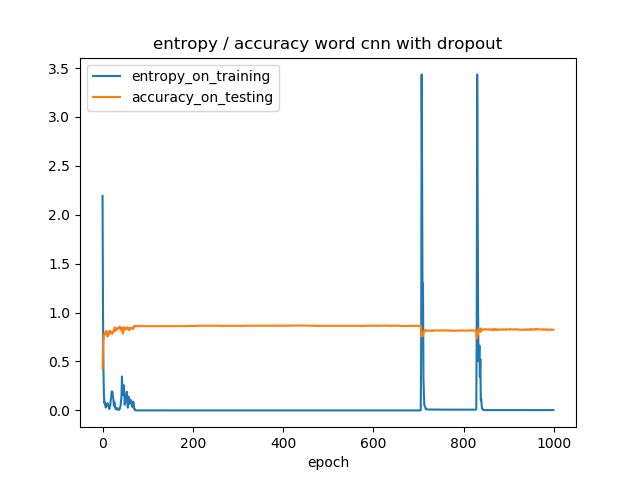
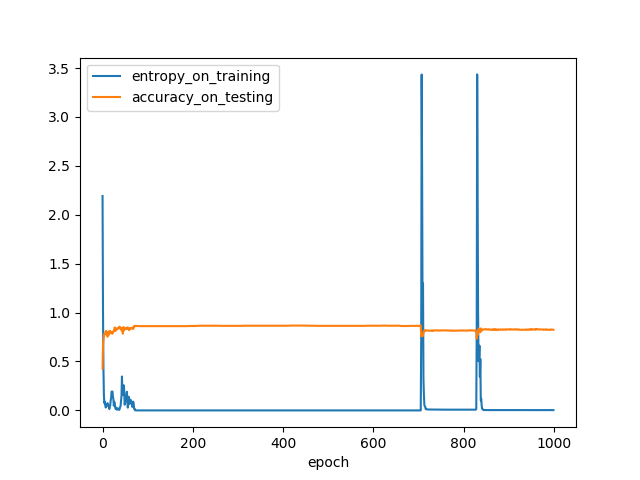
refactor

Changed region(s): [[0.25, 0.0625, 0.7812, 0.125]]

diff --git a/assignment2/assignment2_question_b/char_2rnn.py b/assignment2/assignment2_question_b/char_2rnn.py
@@ -12,6 +12,7 @@ HIDDEN_SIZE = 20
 MAX_LABEL = 15
 EMBEDDING_SIZE = 50
 
+num_layers=2
 lr = 0.01
 
 
@@ -22,8 +23,15 @@ def rnn_model(x, withDropout):
 
     word_list = tf.unstack(word_vectors, axis=1)
 
-    cell = tf.nn.rnn_cell.GRUCell(HIDDEN_SIZE)
-    _, encoding = tf.nn.static_rnn(cell, word_list, dtype=tf.float32)
+    def rnn_cell():
+        return tf.nn.rnn_cell.BasicRNNCell(num_units=HIDDEN_SIZE, activation=tf.nn.softsign)
+
+    stacked_rnn = tf.contrib.rnn.MultiRNNCell([rnn_cell() for _ in range(num_layers)])
+
+    encoding, _ = tf.nn.dynamic_rnn(cell=stacked_rnn,
+                                inputs=word_list,
+                                dtype=tf.float32)
+
 
     logits = tf.layers.dense(encoding, MAX_LABEL, activation=None)
     if withDropout:
@@ -92,7 +100,7 @@ def train(withDropout):
         plt.figure()
         plt.plot(entropy_on_training)
         plt.plot(accuracy_on_testing)
-        plt.title('entropy / accuracy word cnn with dropout')
+        plt.title('entropy / accuracy')
         plt.xlabel('epoch')
         plt.legend(['entropy_on_training', 'accuracy_on_testing',], loc='upper left')
         plt.savefig(os.path.join(dir_path, 'other', 'figure', 'char_2rnn_withDropout.png'))  
@@ -105,7 +113,7 @@ def train(withDropout):
         plt.figure()
         plt.plot(entropy_on_training)
         plt.plot(accuracy_on_testing)
-        plt.title('entropy / accuracy word cnn without dropout')
+        plt.title('entropy / accuracy')
         plt.xlabel('epoch')
         plt.legend(['entropy_on_training', 'accuracy_on_testing',], loc='upper left')
         plt.savefig(os.path.join(dir_path, 'other', 'figure', 'char_2rnn_withoutDropout.png'))  

diff --git a/assignment2/assignment2_question_b/char_rnn_clipping.py b/assignment2/assignment2_question_b/char_rnn_clipping.py
@@ -95,7 +95,7 @@ def train(withDropout):
         plt.figure()
         plt.plot(entropy_on_training)
         plt.plot(accuracy_on_testing)
-        plt.title('entropy / accuracy word cnn with dropout')
+        plt.title('entropy / accuracy')
         plt.xlabel('epoch')
         plt.legend(['entropy_on_training', 'accuracy_on_testing',], loc='upper left')
         plt.savefig(os.path.join(dir_path, 'other', 'figure', 'char_rnn_clipping_withDropout.png'))  
@@ -108,7 +108,7 @@ def train(withDropout):
         plt.figure()
         plt.plot(entropy_on_training)
         plt.plot(accuracy_on_testing)
-        plt.title('entropy / accuracy word cnn without dropout')
+        plt.title('entropy / accuracy word')
         plt.xlabel('epoch')
         plt.legend(['entropy_on_training', 'accuracy_on_testing',], loc='upper left')
         plt.savefig(os.path.join(dir_path, 'other', 'figure', 'char_rnn_clipping_withoutDropout.png'))  

diff --git a/assignment2/assignment2_question_b/word_rnn_clipping.py b/assignment2/assignment2_question_b/word_rnn_clipping.py
@@ -95,7 +95,7 @@ def train(withDropout):
         plt.figure()
         plt.plot(entropy_on_training)
         plt.plot(accuracy_on_testing)
-        plt.title('entropy / accuracy word cnn with dropout')
+        plt.title('entropy / accuracy')
         plt.xlabel('epoch')
         plt.legend(['entropy_on_training', 'accuracy_on_testing',], loc='upper left')
         plt.savefig(os.path.join(dir_path, 'other', 'figure', 'word_rnn_clipping_withDropout.png'))  
@@ -108,7 +108,7 @@ def train(withDropout):
         plt.figure()
         plt.plot(entropy_on_training)
         plt.plot(accuracy_on_testing)
-        plt.title('entropy / accuracy word cnn without dropout')
+        plt.title('entropy / accuracy')
         plt.xlabel('epoch')
         plt.legend(['entropy_on_training', 'accuracy_on_testing',], loc='upper left')
         plt.savefig(os.path.join(dir_path, 'other', 'figure', 'word_rnn_clipping_withoutDropout.png'))  

diff --git a/assignment2/assignment2_question_b/char_rnn.py b/assignment2/assignment2_question_b/char_rnn.py
@@ -92,7 +92,7 @@ def train(withDropout):
         plt.figure()
         plt.plot(entropy_on_training)
         plt.plot(accuracy_on_testing)
-        plt.title('entropy / accuracy word cnn with dropout')
+        plt.title('entropy / accuracy')
         plt.xlabel('epoch')
         plt.legend(['entropy_on_training', 'accuracy_on_testing',], loc='upper left')
         plt.savefig(os.path.join(dir_path, 'other', 'figure', 'char_rnn_withDropout.png'))  
@@ -105,7 +105,7 @@ def train(withDropout):
         plt.figure()
         plt.plot(entropy_on_training)
         plt.plot(accuracy_on_testing)
-        plt.title('entropy / accuracy word cnn without dropout')
+        plt.title('entropy / accuracy word')
         plt.xlabel('epoch')
         plt.legend(['entropy_on_training', 'accuracy_on_testing',], loc='upper left')
         plt.savefig(os.path.join(dir_path, 'other', 'figure', 'char_rnn_withoutDropout.png'))  

diff --git a/assignment2/assignment2_question_b/char_cnn.py b/assignment2/assignment2_question_b/char_cnn.py
@@ -123,7 +123,7 @@ def train(withDropout):
         plt.figure()
         plt.plot(entropy_on_training)
         plt.plot(accuracy_on_testing)
-        plt.title('entropy / accuracy char cnn with dropout')
+        plt.title('entropy / accuracy')
         plt.xlabel('epoch')
         plt.legend(['entropy_on_training', 'accuracy_on_testing',], loc='upper left')
         plt.savefig(os.path.join(dir_path, 'other', 'figure', 'char_cnn_withDropout.png'))  
@@ -136,7 +136,7 @@ def train(withDropout):
         plt.figure()
         plt.plot(entropy_on_training)
         plt.plot(accuracy_on_testing)
-        plt.title('entropy / accuracy char cnn without dropout')
+        plt.title('entropy / accuracy')
         plt.xlabel('epoch')
         plt.legend(['entropy_on_training', 'accuracy_on_testing',], loc='upper left')
         plt.savefig(os.path.join(dir_path, 'other', 'figure', 'char_cnn_withoutDropout.png'))  

diff --git a/assignment2/assignment2_question_b/word_2rnn.py b/assignment2/assignment2_question_b/word_2rnn.py
@@ -88,7 +88,7 @@ def train(withDropout):
         plt.figure()
         plt.plot(entropy_on_training)
         plt.plot(accuracy_on_testing)
-        plt.title('entropy / accuracy word cnn with dropout')
+        plt.title('entropy / accuracy')
         plt.xlabel('epoch')
         plt.legend(['entropy_on_training', 'accuracy_on_testing',], loc='upper left')
         plt.savefig(os.path.join(dir_path, 'other', 'figure', 'word_2rnn_withDropout.png'))  
@@ -101,7 +101,7 @@ def train(withDropout):
         plt.figure()
         plt.plot(entropy_on_training)
         plt.plot(accuracy_on_testing)
-        plt.title('entropy / accuracy word cnn without dropout')
+        plt.title('entropy / accuracy')
         plt.xlabel('epoch')
         plt.legend(['entropy_on_training', 'accuracy_on_testing',], loc='upper left')
         plt.savefig(os.path.join(dir_path, 'other', 'figure', 'word_2rnn_withoutDropout.png'))  

diff --git a/assignment2/assignment2_question_b/word_cnn.py b/assignment2/assignment2_question_b/word_cnn.py
@@ -126,7 +126,7 @@ def train(withDropout):
         plt.figure()
         plt.plot(entropy_on_training)
         plt.plot(accuracy_on_testing)
-        plt.title('entropy / accuracy word cnn with dropout')
+        plt.title('entropy / accuracy')
         plt.xlabel('epoch')
         plt.legend(['entropy_on_training', 'accuracy_on_testing',], loc='upper left')
         plt.savefig(os.path.join(dir_path, 'other', 'figure', 'word_cnn_withDropout.png'))  
@@ -139,7 +139,7 @@ def train(withDropout):
         plt.figure()
         plt.plot(entropy_on_training)
         plt.plot(accuracy_on_testing)
-        plt.title('entropy / accuracy word cnn without dropout')
+        plt.title('entropy / accuracy')
         plt.xlabel('epoch')
         plt.legend(['entropy_on_training', 'accuracy_on_testing',], loc='upper left')
         plt.savefig(os.path.join(dir_path, 'other', 'figure', 'word_cnn_withoutDropout.png'))  

diff --git a/assignment2/assignment2_question_b/char_lstm.py b/assignment2/assignment2_question_b/char_lstm.py
@@ -92,7 +92,7 @@ def train(withDropout):
         plt.figure()
         plt.plot(entropy_on_training)
         plt.plot(accuracy_on_testing)
-        plt.title('entropy / accuracy char cnn with dropout')
+        plt.title('entropy / accuracy')
         plt.xlabel('epoch')
         plt.legend(['entropy_on_training', 'accuracy_on_testing',], loc='upper left')
         plt.savefig(os.path.join(dir_path, 'other', 'figure', 'char_lstm_withDropout.png'))  
@@ -105,7 +105,7 @@ def train(withDropout):
         plt.figure()
         plt.plot(entropy_on_training)
         plt.plot(accuracy_on_testing)
-        plt.title('entropy / accuracy char cnn without dropout')
+        plt.title('entropy / accuracy')
         plt.xlabel('epoch')
         plt.legend(['entropy_on_training', 'accuracy_on_testing',], loc='upper left')
         plt.savefig(os.path.join(dir_path, 'other', 'figure', 'char_lstm_withoutDropout.png')) 

diff --git a/assignment2/assignment2_question_b/word_lstm.py b/assignment2/assignment2_question_b/word_lstm.py
@@ -88,7 +88,7 @@ def train(withDropout):
         plt.figure()
         plt.plot(entropy_on_training)
         plt.plot(accuracy_on_testing)
-        plt.title('entropy / accuracy word cnn with dropout')
+        plt.title('entropy / accuracy')
         plt.xlabel('epoch')
         plt.legend(['entropy_on_training', 'accuracy_on_testing',], loc='upper left')
         plt.savefig(os.path.join(dir_path, 'other', 'figure', 'word_lstm_withDropout.png'))  
@@ -101,7 +101,7 @@ def train(withDropout):
         plt.figure()
         plt.plot(entropy_on_training)
         plt.plot(accuracy_on_testing)
-        plt.title('entropy / accuracy word cnn without dropout')
+        plt.title('entropy / accuracy')
         plt.xlabel('epoch')
         plt.legend(['entropy_on_training', 'accuracy_on_testing',], loc='upper left')
         plt.savefig(os.path.join(dir_path, 'other', 'figure', 'word_lstm_withoutDropout.png')) 

diff --git a/assignment2/assignment2_question_b/char_gru.py b/assignment2/assignment2_question_b/char_gru.py
@@ -92,7 +92,7 @@ def train(withDropout):
         plt.figure()
         plt.plot(entropy_on_training)
         plt.plot(accuracy_on_testing)
-        plt.title('entropy / accuracy word cnn with dropout')
+        plt.title('entropy / accuracy')
         plt.xlabel('epoch')
         plt.legend(['entropy_on_training', 'accuracy_on_testing',], loc='upper left')
         plt.savefig(os.path.join(dir_path, 'other', 'figure', 'char_gru_withDropout.png'))  
@@ -105,7 +105,7 @@ def train(withDropout):
         plt.figure()
         plt.plot(entropy_on_training)
         plt.plot(accuracy_on_testing)
-        plt.title('entropy / accuracy word cnn without dropout')
+        plt.title('entropy / accuracy')
         plt.xlabel('epoch')
         plt.legend(['entropy_on_training', 'accuracy_on_testing',], loc='upper left')
         plt.savefig(os.path.join(dir_path, 'other', 'figure', 'char_gru_withoutDropout.png'))  

diff --git a/assignment2/assignment2_question_b/word_gru.py b/assignment2/assignment2_question_b/word_gru.py
@@ -88,7 +88,7 @@ def train(withDropout):
         plt.figure()
         plt.plot(entropy_on_training)
         plt.plot(accuracy_on_testing)
-        plt.title('entropy / accuracy word cnn with dropout')
+        plt.title('entropy / accuracy')
         plt.xlabel('epoch')
         plt.legend(['entropy_on_training', 'accuracy_on_testing',], loc='upper left')
         plt.savefig(os.path.join(dir_path, 'other', 'figure', 'word_gru_withDropout.png'))  
@@ -101,7 +101,7 @@ def train(withDropout):
         plt.figure()
         plt.plot(entropy_on_training)
         plt.plot(accuracy_on_testing)
-        plt.title('entropy / accuracy word cnn without dropout')
+        plt.title('entropy / accuracy')
         plt.xlabel('epoch')
         plt.legend(['entropy_on_training', 'accuracy_on_testing',], loc='upper left')
         plt.savefig(os.path.join(dir_path, 'other', 'figure', 'word_gru_withoutDropout.png'))  

diff --git a/assignment2/assignment2_question_b/word_rnn.py b/assignment2/assignment2_question_b/word_rnn.py
@@ -88,7 +88,7 @@ def train(withDropout):
         plt.figure()
         plt.plot(entropy_on_training)
         plt.plot(accuracy_on_testing)
-        plt.title('entropy / accuracy word cnn with dropout')
+        plt.title('entropy / accuracy')
         plt.xlabel('epoch')
         plt.legend(['entropy_on_training', 'accuracy_on_testing',], loc='upper left')
         plt.savefig(os.path.join(dir_path, 'other', 'figure', 'word_rnn_withDropout.png'))  
@@ -101,7 +101,7 @@ def train(withDropout):
         plt.figure()
         plt.plot(entropy_on_training)
         plt.plot(accuracy_on_testing)
-        plt.title('entropy / accuracy word cnn without dropout')
+        plt.title('entropy / accuracy')
         plt.xlabel('epoch')
         plt.legend(['entropy_on_training', 'accuracy_on_testing',], loc='upper left')
         plt.savefig(os.path.join(dir_path, 'other', 'figure', 'word_rnn_withoutDropout.png'))  
